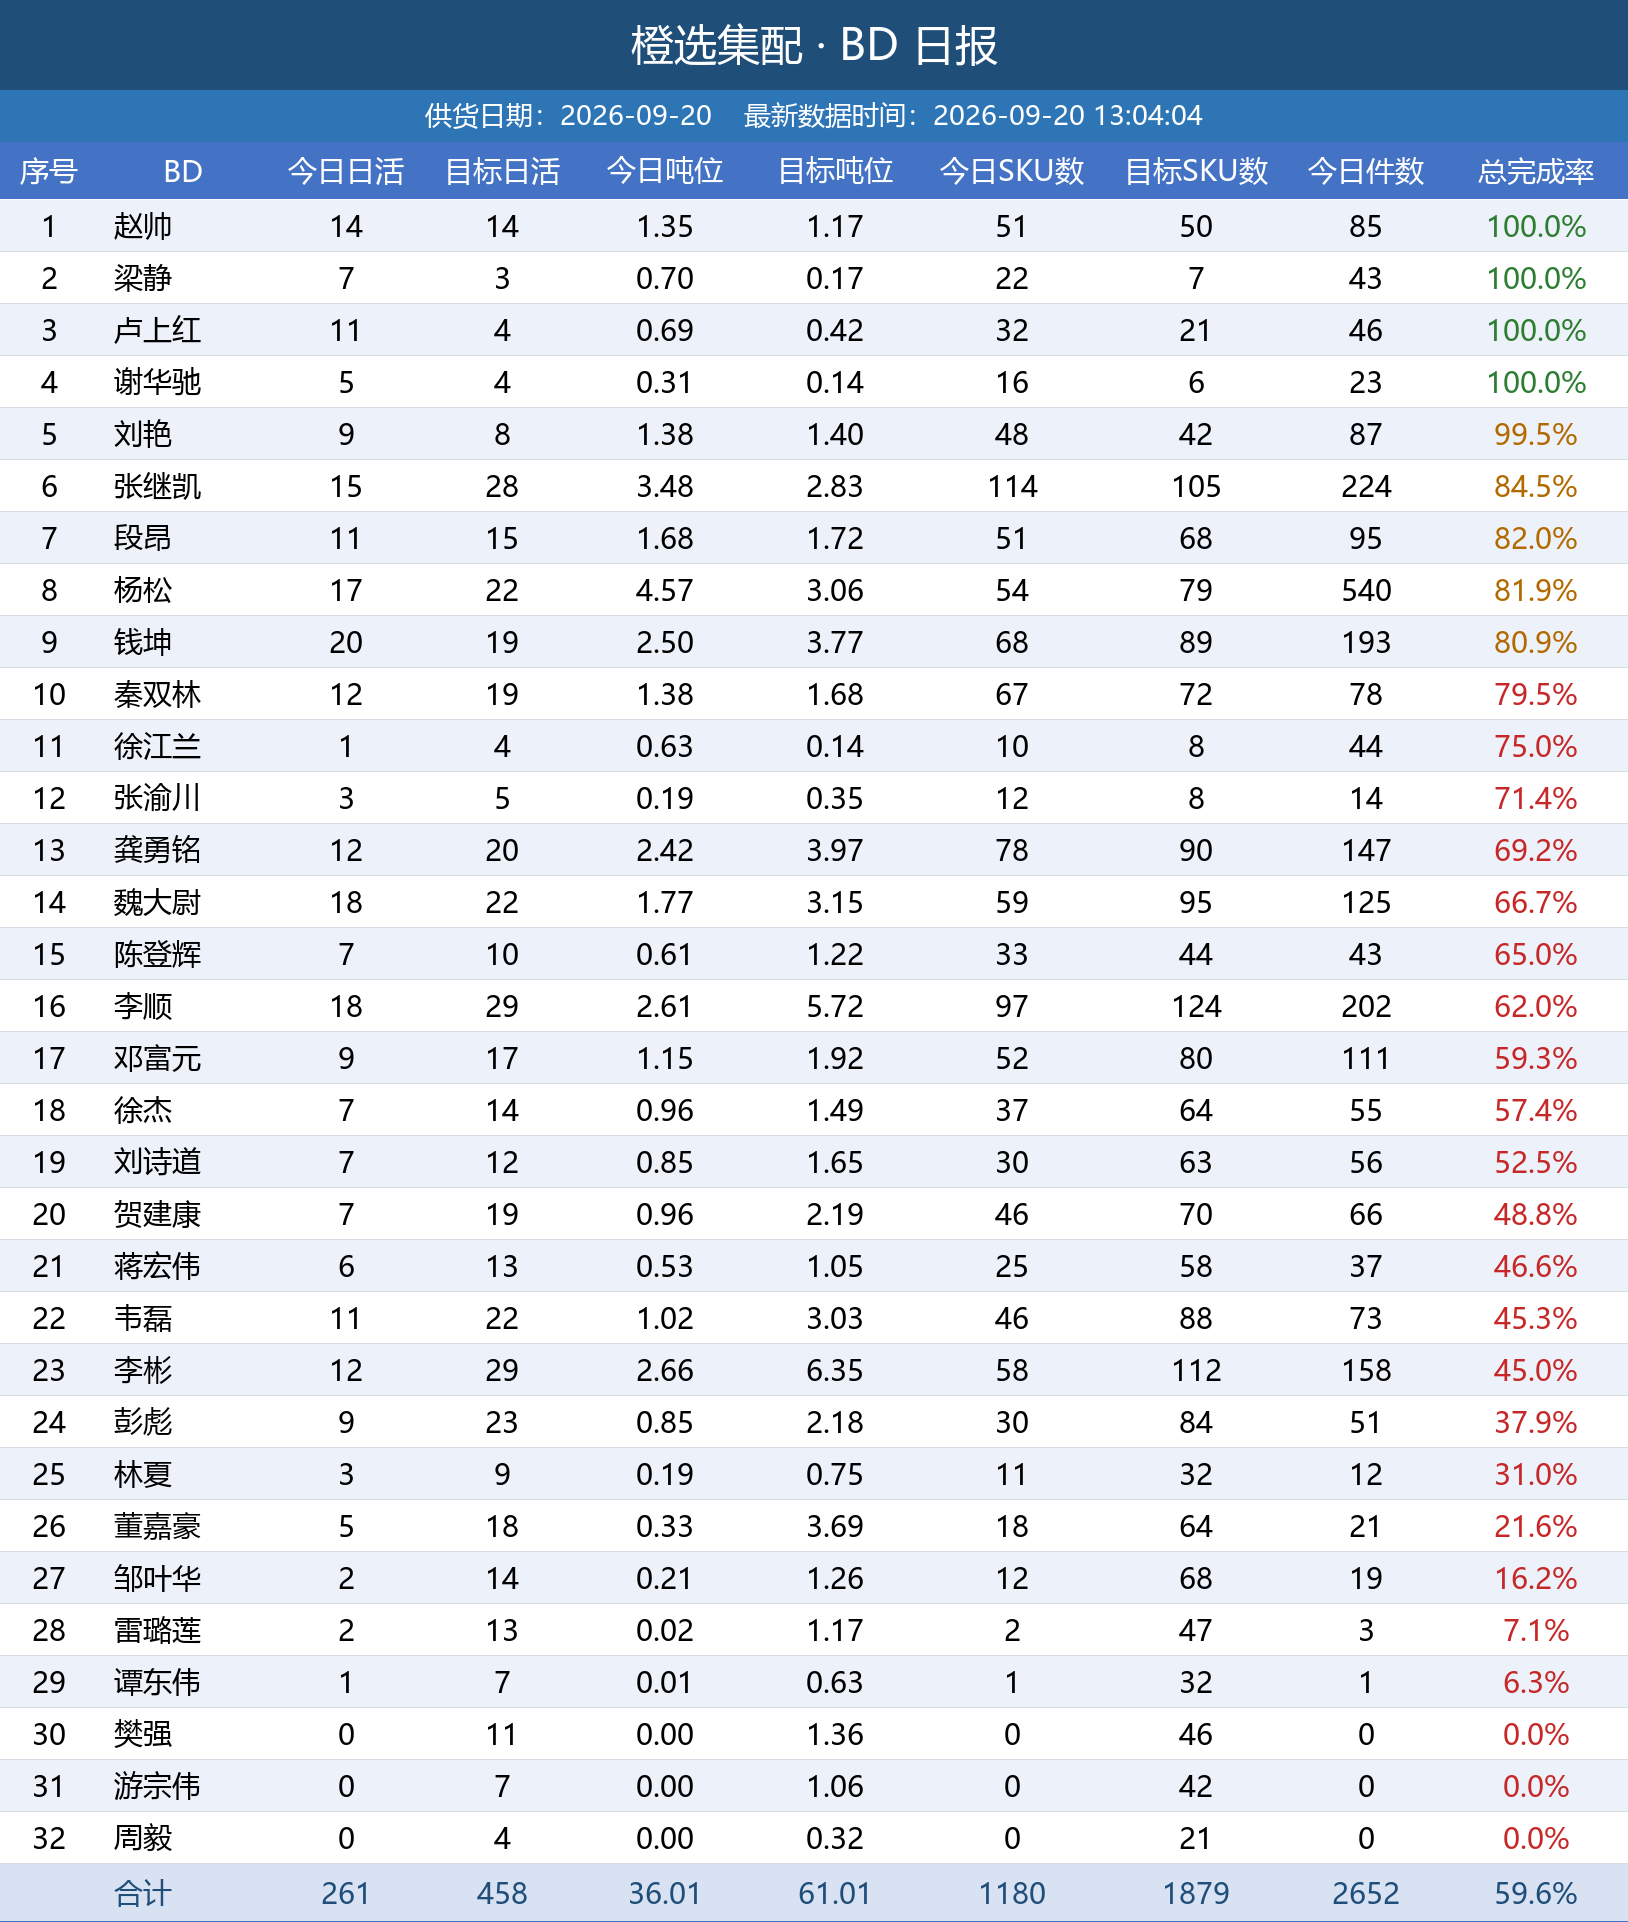
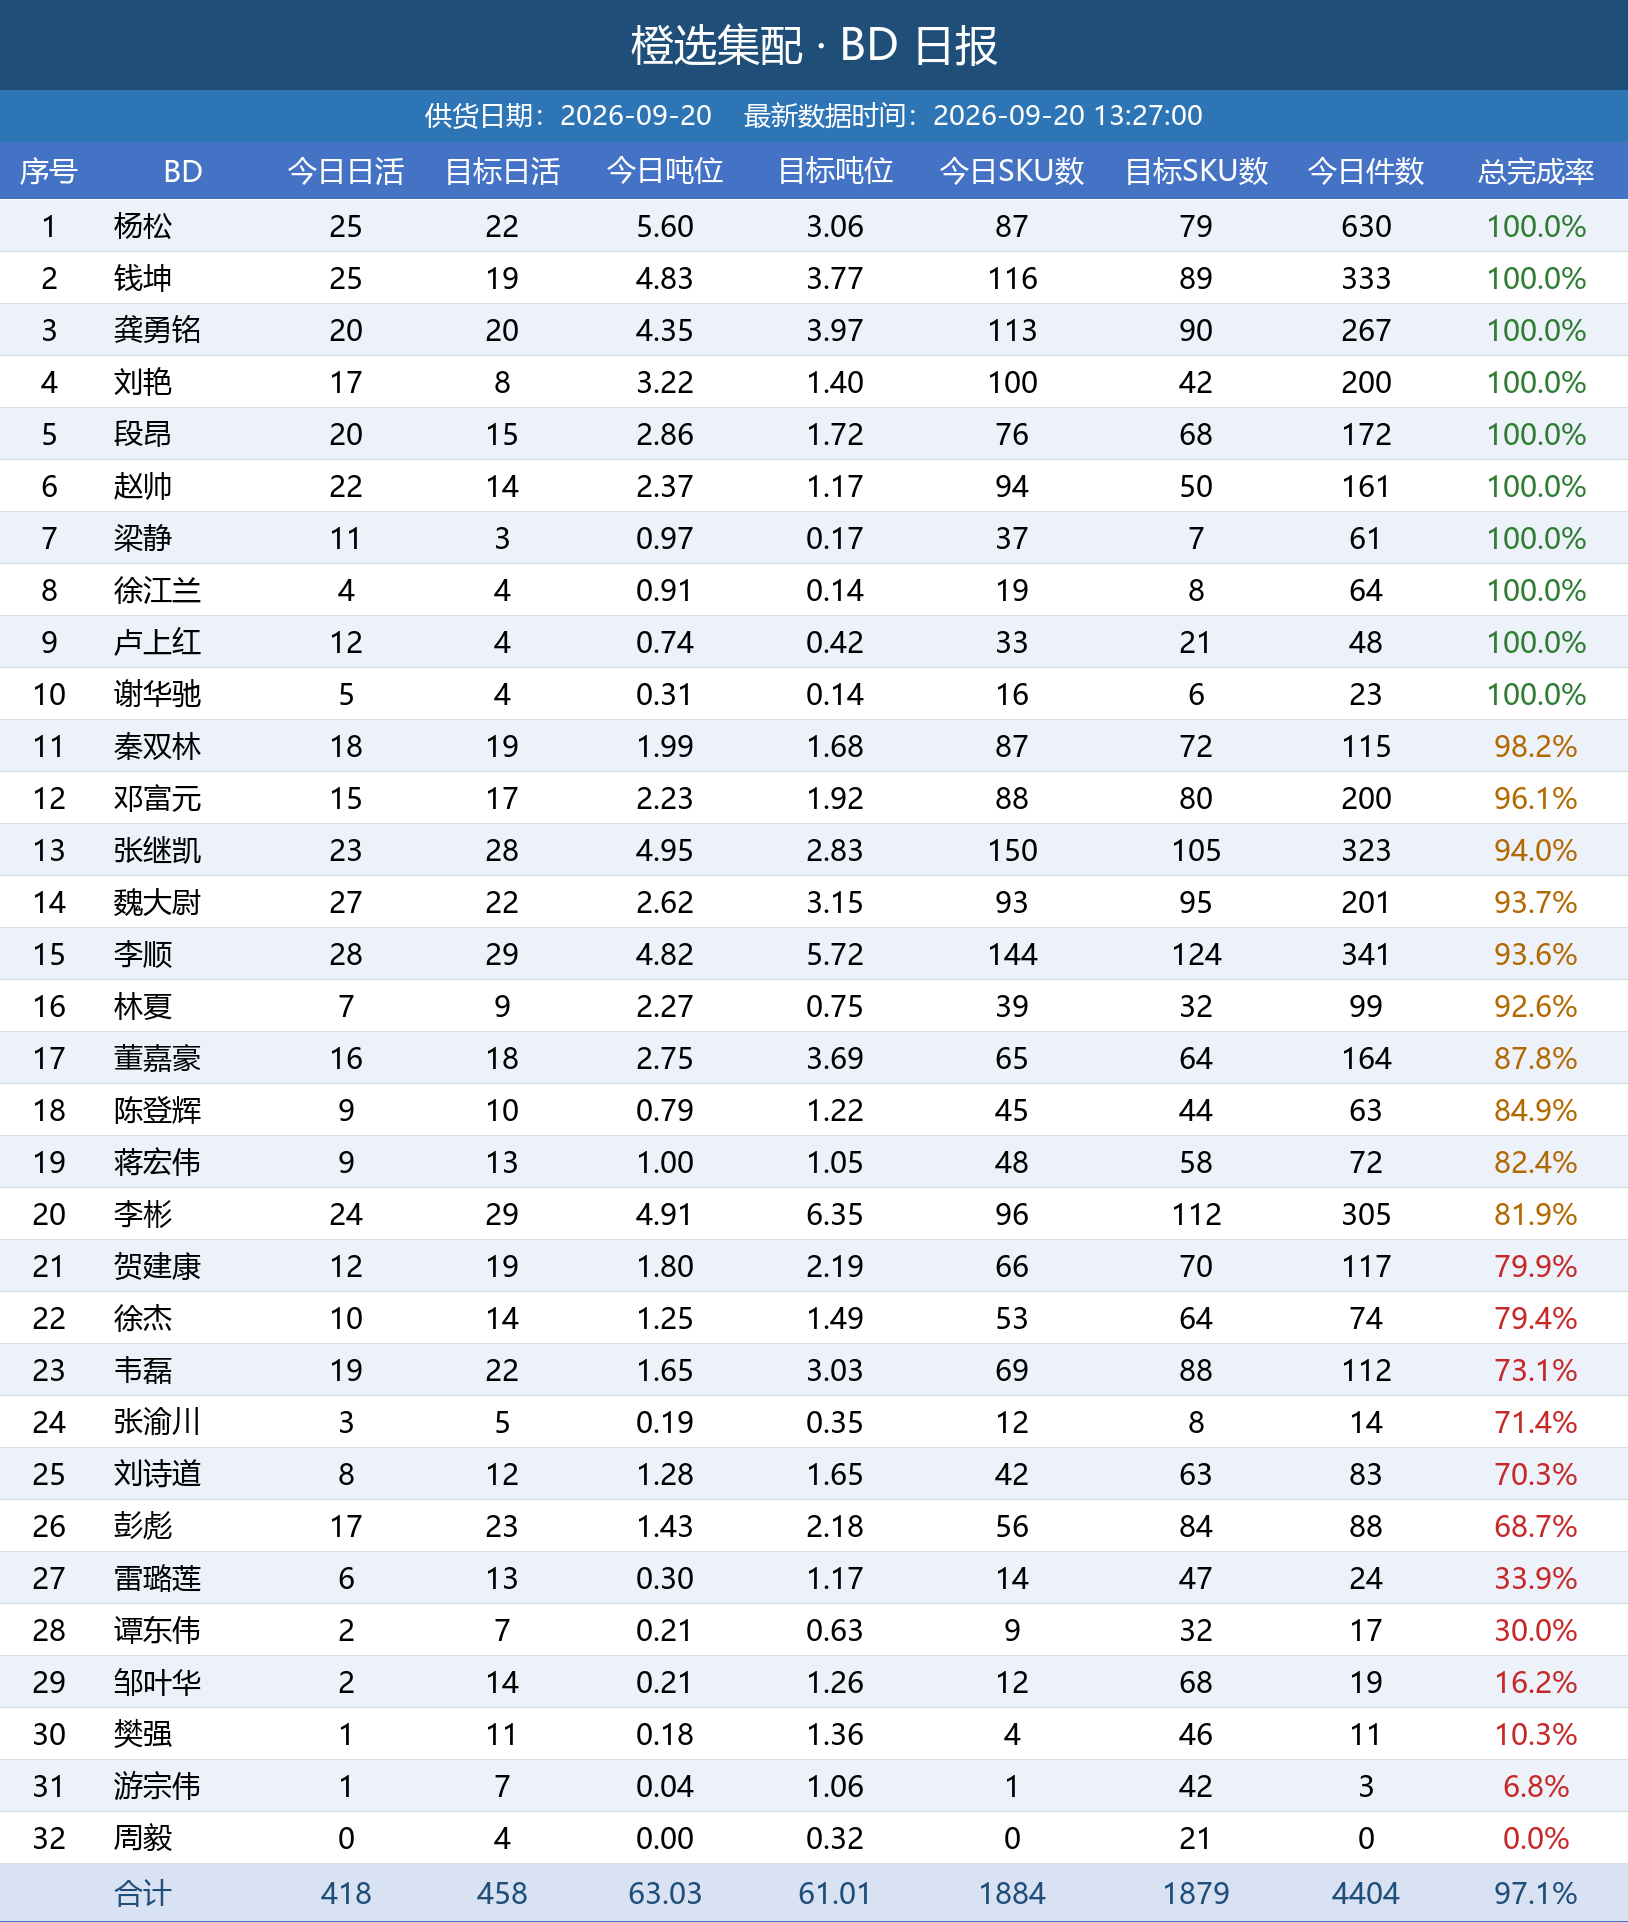
自动更新日报图片

diff --git a/daily_report/index.html b/daily_report/index.html
@@ -11,7 +11,7 @@ img { max-width: 100%; border: 1px solid #e5e5e5; margin-bottom: 24px; display: 
 </style>
 </head>
 <body>
-<h1>橙选集配日报图片（20260920_131010）</h1>
+<h1>橙选集配日报图片（20260920_132705）</h1>
 <img src="bd_latest.png" alt="BD 日报">
 <img src="wh_latest.png" alt="城市仓日报">
 <img src="zs_latest.png" alt="招商日报">
